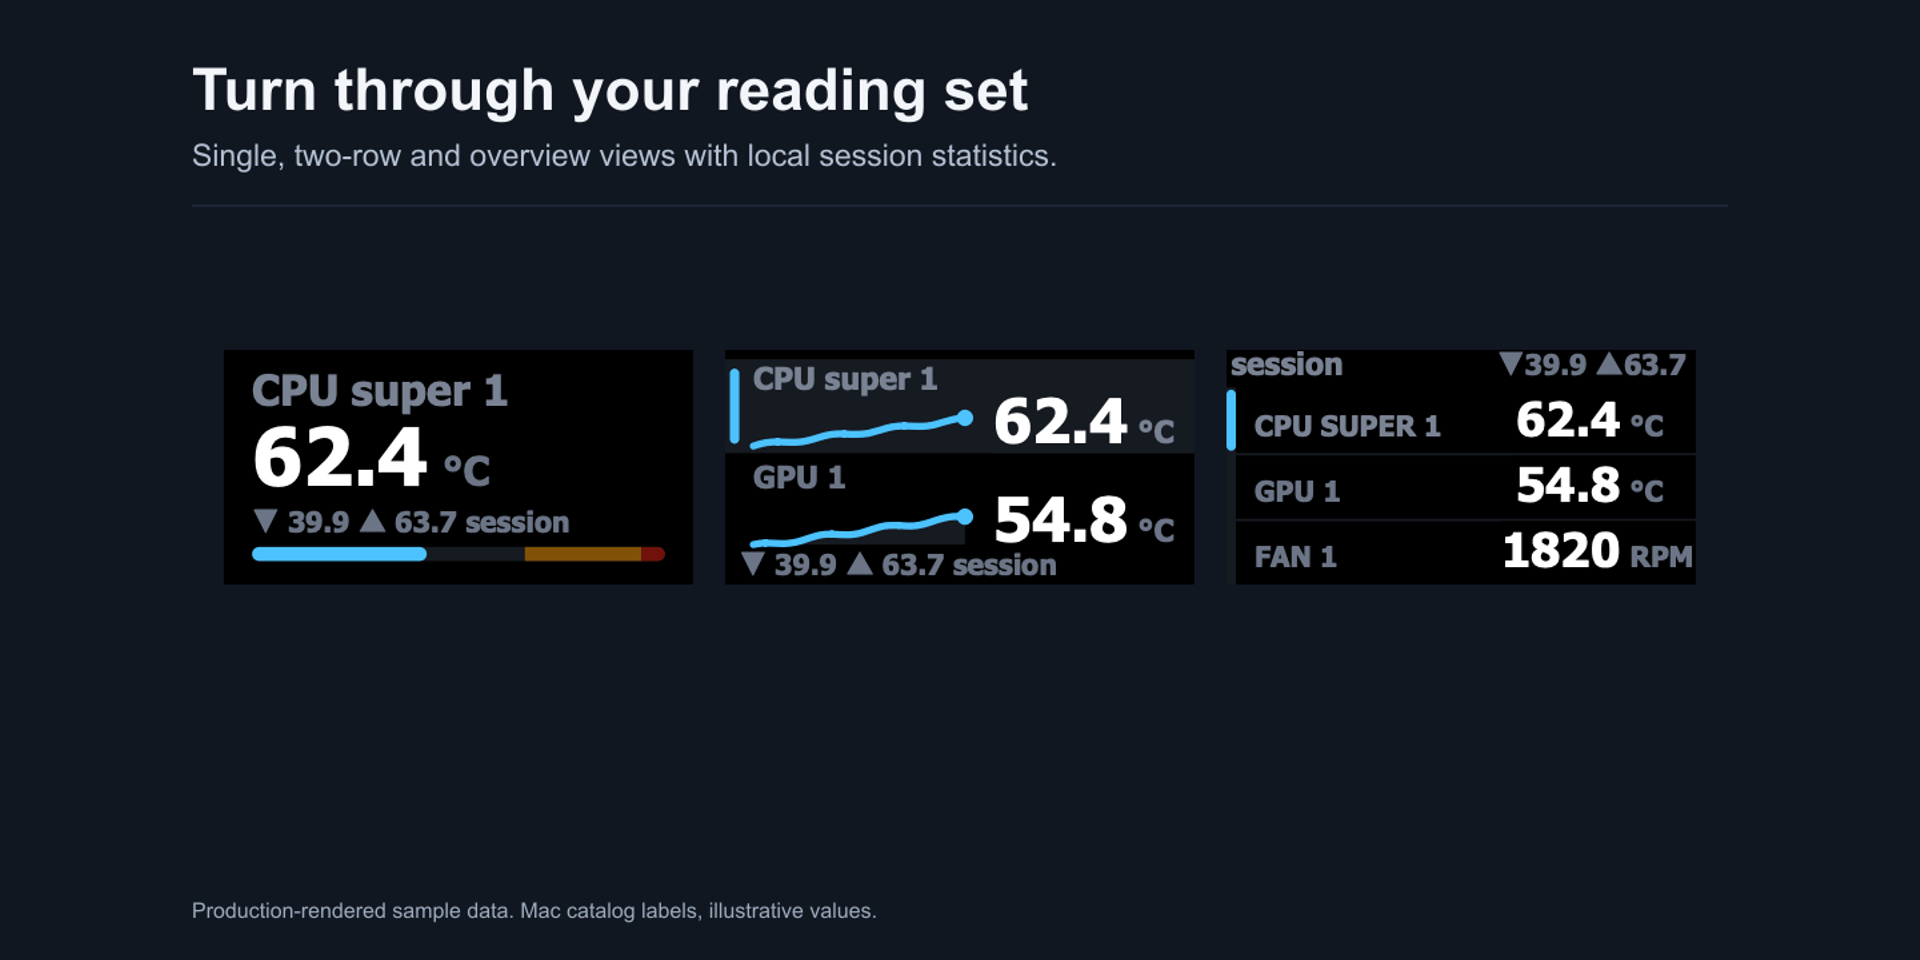
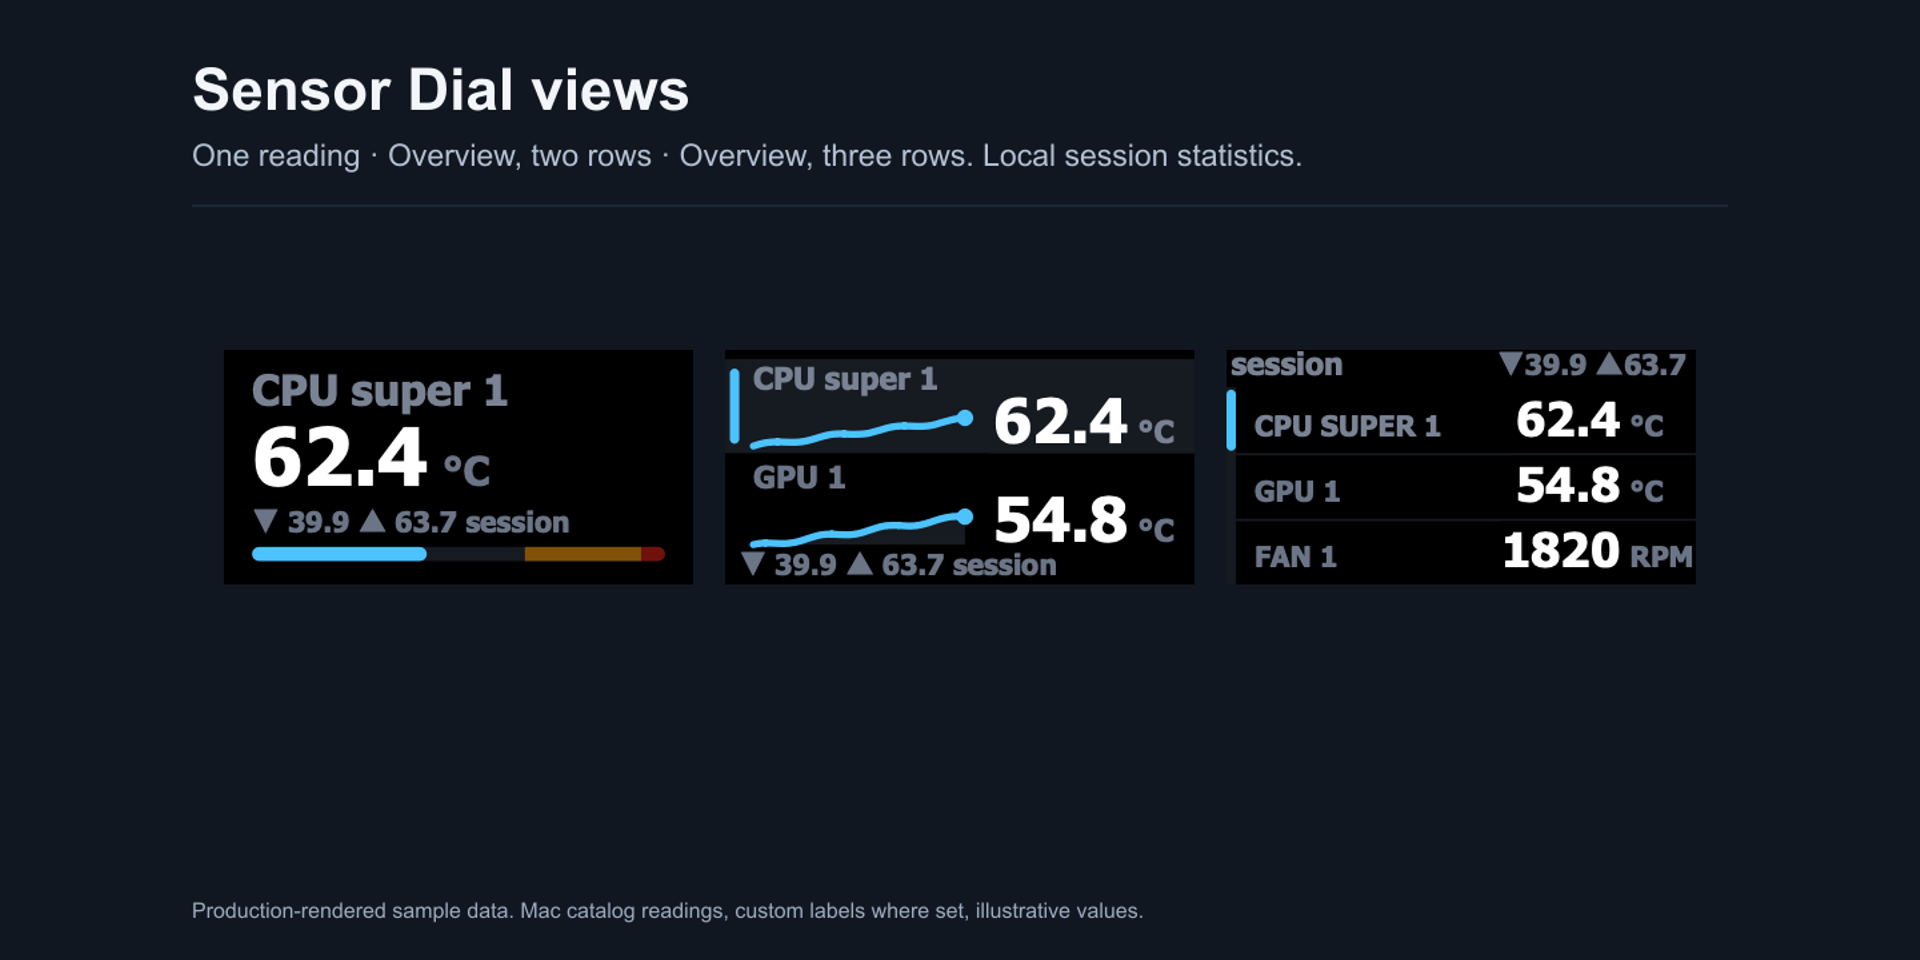
docs(images): name the dial views and custom labels on the boards
The dial board named its views "Single, two-row and overview"; it now uses
the panel's View options: One reading, Overview, two rows and Overview,
three rows. Every board footer said "Mac catalog labels" while showing
custom labels such as CPU super 1 and Network RX. Each scene now records
whether it draws a typed label, and a board that shows one says "custom
labels where set". Slogan titles become plain subjects (Sensor Reading key
layouts, Sensor Dial views, Seven themes, Warning and critical colors,
Reading colors on a Sensor Dial).

Regenerated with npm run docs:assets through the installed app's Qt 6.11.1,
which first reproduced all 11 committed boards byte for byte from the
unchanged source; then npm run readme-boards and npm run marketing:shots.
The status board has no typed label and is unchanged. A test ties the dial
board's text to the panel's View options and checks which faces count as
custom-labelled.

Changed region(s): [[0.0938, 0.0625, 0.5312, 0.125], [0.0938, 0.1562, 0.6875, 0.1875], [0.3438, 0.9375, 0.5938, 0.9688]]

diff --git a/scripts/lib/mac-scenes.ts b/scripts/lib/mac-scenes.ts
@@ -10,7 +10,7 @@ import {composeBackFace,composeChunkFace,composePagerFace,composeTitleFace,type 
 import {pageOf,projectDetailTiles,resolveDetailGroup} from '../../src/detail/detail-group';
 import {DETAIL_PROFILES,readingSlotCapacity,type DetailNavRole} from '../../src/detail/managed-profiles';
 import type {DetailPresentation,DeviceDetailState} from '../../src/detail/navigation';
-export type Scene={id:string;kind:'key'|'dial';svg:string;description:string};
+export type Scene={id:string;kind:'key'|'dial';svg:string;description:string;customLabel:boolean};
 const smc=(key:string,meaning:string)=>`mac:v1:smc:Mac17%2C9:${Buffer.from(key).toString('hex')}:${meaning}.v1`;
 /** The shipped provider's groups in its GROUPS order (src/mac/provider.ts); each group's sensor id is its position plus one. */
 export const PROVIDER_GROUPS=['CPU','GPU','Memory','Storage','Network','Battery','Fans','System'] as const;
@@ -49,6 +49,11 @@ export function sampleSnapshot():SensorSnapshot {
 const docsGlobals={theme:'void',textMode:'theme',typeAccents:'off',dataUnits:'decimal',textFont:'tahoma'} as const;
 const STAT_CYCLE=['current','min','max','avg'] as const;
 const readingFaceLabels=['CPU super 1','GPU 1','Fan 1','System Total','CPU activity','Memory active','Network RX','Free space'];
+/** True when a face draws a typed label instead of the reading's catalog label, so its board footer can say custom labels are shown. */
+const typedLabel=(pairs:[string|undefined,string|undefined][])=>pairs.some(([key,label])=>!!label&&label!==sampleReadings.find(row=>row.key===key)?.label);
+/** The labelled slots a key layout draws: one reading, or the first two, three or four. */
+const KEY_LAYOUT_SLOTS:Record<string,number>={dual:2,triple:3,quad:4};
+const keyLabels=(settings:ReadingSettings)=>typedLabel(([[settings.readingKey,settings.label],[settings.secondaryReadingKey,settings.secondaryLabel],[settings.quadReadingKey3,settings.quadLabel3],[settings.quadReadingKey4,settings.quadLabel4]] as [string|undefined,string|undefined][]).slice(0,KEY_LAYOUT_SLOTS[settings.keyLayout??'']??1));
 // The bundled 15-key detail profile, read from the one registry the runtime and profile generator use.
 const standardDetail=DETAIL_PROFILES.find(profile=>profile.key==='standard')!;
 type DetailCell={id:string;role:DetailNavRole}|{id:string;index:number};
@@ -70,7 +75,7 @@ export function composeScenes():Scene[] {
 		// Fixture-only history in this rendering process; no provider is opened.
 		poller.subscribeSeries(row.key);const series=poller.getSeries(row.key) as number[];series.length=0;series.push(...history);
 	}
-	const scenes:Scene[]=[],key=(id:string,settings:ReadingSettings,description:string,back=false)=>scenes.push({id,kind:'key',svg:compose(settings,status,back),description});
+	const scenes:Scene[]=[],key=(id:string,settings:ReadingSettings,description:string,back=false)=>scenes.push({id,kind:'key',svg:compose(settings,status,back),description,customLabel:keyLabels(settings)});
 	for(const [index,row] of sampleReadings.entries())key('reading-'+index,{readingKey:row.key,label:readingFaceLabels[index],displayMode:'sparkline'},row.label);
 	const primary={readingKey:sampleReadings[0]!.key,label:'CPU super 1',secondaryReadingKey:sampleReadings[1]!.key,secondaryLabel:'GPU 1',quadReadingKey3:sampleReadings[2]!.key,quadLabel3:'Fan 1',quadReadingKey4:sampleReadings[4]!.key,quadLabel4:'CPU'};
 	for(const keyLayout of ['dual','triple','quad'])key('layout-'+keyLayout,{...primary,keyLayout,quadLabels:true,...(keyLayout==='triple'?{label:'CPU',secondaryLabel:'GPU',quadLabel3:'Fan'}:{})},keyLayout+' layout');
@@ -82,13 +87,13 @@ export function composeScenes():Scene[] {
 	for(const theme of ['void','graphite','ultraviolet','midnight','forest','ember','paper'])key('theme-'+theme,{readingKey:sampleReadings[0]!.key,label:'CPU super 1',theme,displayMode:'sparkline'},theme+' theme');
 	for(const dialView of ['single','tworow','overview']){
 		const settings:DialSettings={readingKey:sampleReadings[0]!.key,label:'CPU super 1',rotationKeys:sampleReadings.slice(0,3).map(row=>row.key),dialView,overviewLabels:'full',theme:'void',...(dialView==='single'?{warnValue:'75',critValue:'90'}:{})};
-		const state:DialRenderState={settings,stats,statMode:'current',overlay:null,pinned:false,cyclePaused:false};scenes.push({id:'dial-'+dialView,kind:'dial',svg:composeDialSvg(state,status,key=>histories.get(key)??[]),description:dialView+' dial view'});
+		const state:DialRenderState={settings,stats,statMode:'current',overlay:null,pinned:false,cyclePaused:false};scenes.push({id:'dial-'+dialView,kind:'dial',svg:composeDialSvg(state,status,key=>histories.get(key)??[]),description:dialView+' dial view',customLabel:typedLabel([[settings.readingKey,settings.label]])});
 	}
 	const colored:DialRenderState={settings:{readingKey:sampleReadings[0]!.key,label:'CPU super 1',rotationKeys:sampleReadings.slice(0,3).map(row=>row.key),dialView:'overview',overviewLabels:'full',theme:'void',readingColors:Object.fromEntries(sampleReadings.slice(0,3).map((row,index)=>[row.key,['#4CC2FF','#FF7E8E','#38CD89'][index]!]))},stats,statMode:'current',overlay:null,pinned:false,cyclePaused:false};
-	scenes.push({id:'dial-overview-colored',kind:'dial',svg:composeDialSvg(colored,status,key=>histories.get(key)??[]),description:'Individual number colors'});
+	scenes.push({id:'dial-overview-colored',kind:'dial',svg:composeDialSvg(colored,status,key=>histories.get(key)??[]),description:'Individual number colors',customLabel:typedLabel([[colored.settings.readingKey,colored.settings.label]])});
 	// No Mac code path raises access-denied, so it has no scene.
-	for(const reason of ['pending','busy','no-readable-sensors','unsupported-platform','bridge-failed','font-missing','source-error'] as const)scenes.push({id:'status-'+reason,kind:'key',svg:compose({readingKey:sampleReadings[0]!.key},{state:'unavailable',reason,message:''}),description:reason});
-	scenes.push({id:'status-missing',kind:'key',svg:compose({readingKey:'mac:v1:system:missing'},status),description:'Saved sensor missing'});
+	for(const reason of ['pending','busy','no-readable-sensors','unsupported-platform','bridge-failed','font-missing','source-error'] as const)scenes.push({id:'status-'+reason,kind:'key',svg:compose({readingKey:sampleReadings[0]!.key},{state:'unavailable',reason,message:''}),description:reason,customLabel:false});
+	scenes.push({id:'status-missing',kind:'key',svg:compose({readingKey:'mac:v1:system:missing'},status),description:'Saved sensor missing',customLabel:false});
 	// The detail page as DetailController paints it: an opener on CPU super 1 whose Press opens A custom list of the other
 	// seven sample readings with Title tile text left blank, so the title is resolveDetailGroup's own default.
 	// Opened from the top-left key, so no reading cell becomes a second Back tile.
@@ -100,10 +105,11 @@ export function composeScenes():Scene[] {
 	for(const cell of detailCells()){
 		if('role' in cell){
 			const svg=cell.role==='back'?composeBackFace(state,status,ctx):cell.role==='title'?composeTitleFace(state,page,ctx):composePagerFace(cell.role,page,state,ctx);
-			scenes.push({id:cell.id,kind:'key',svg,description:'Detail page '+cell.role+' tile'});
+			// The Back tile draws the opener's own label; the title and pagers draw no reading label.
+			scenes.push({id:cell.id,kind:'key',svg,description:'Detail page '+cell.role+' tile',customLabel:cell.role==='back'&&typedLabel([[opener.readingKey,opener.label]])});
 		}else{
 			const chunk=page.chunks[cell.index]??[];
-			scenes.push({id:cell.id,kind:'key',svg:composeChunkFace(state,chunk,'current',status,ctx,page.specs[cell.index]),description:chunk.length?'Detail page reading tile: '+chunk.map(key=>snapshot.byKey.get(key)?.label).join(', '):'Detail page empty tile'});
+			scenes.push({id:cell.id,kind:'key',svg:composeChunkFace(state,chunk,'current',status,ctx,page.specs[cell.index]),description:chunk.length?'Detail page reading tile: '+chunk.map(key=>snapshot.byKey.get(key)?.label).join(', '):'Detail page empty tile',customLabel:false});
 		}
 	}
 	// The shipped default, Accent colors: By sensor type, on the same reading faces.
@@ -117,15 +123,20 @@ export function composeScenes():Scene[] {
 	}
 	return scenes;
 }
+/** The footer under a board: it says custom labels are shown when any face on the board draws one. */
+export function boardFooter(board:{scenes:string[]},scenes:Scene[]):string {
+	const custom=board.scenes.some(id=>scenes.find(scene=>scene.id===id)?.customLabel);
+	return 'Production-rendered sample data. '+(custom?'Mac catalog readings, custom labels where set':'Mac catalog labels')+', illustrative values.';
+}
 export const boardDefinitions=[
 	{id:'readme-hero',title:'Mac Sensors',subtitle:'Seven themes. Live readings on keys and dials. Hardware stays read-only.',scenes:['theme-void','theme-graphite','theme-ultraviolet','theme-midnight','theme-forest','theme-ember','theme-paper','layout-quad','reading-0','reading-1','reading-2','reading-3','reading-4','reading-5','reading-6','reading-7','layout-dual','layout-triple','ring','bar','warn','crit','back','detail-page-title','dial-single','dial-tworow','dial-overview','dial-overview-colored'],columns:8},
 	{id:'hero',title:'Mac Sensors',subtitle:'Your Mac, on your keys and dials.',scenes:['reading-0','reading-1','reading-2','reading-4','dial-tworow'],columns:4},
-	{id:'key-layouts',title:'Give each reading the space it needs',subtitle:'One, two, three or four readings on a key.',scenes:['reading-0','layout-dual','layout-triple','layout-quad','bar','ring','reading-5','reading-6'],columns:4},
+	{id:'key-layouts',title:'Sensor Reading key layouts',subtitle:'One, two, three or four readings on a key.',scenes:['reading-0','layout-dual','layout-triple','layout-quad','bar','ring','reading-5','reading-6'],columns:4},
 	{id:'details',title:'Detail page on a 15-key Stream Deck',subtitle:'Back, title, Previous and Next, then a custom list of seven readings. The last four cells are empty.',scenes:detailCells().map(cell=>cell.id),columns:standardDetail.layout.columns,tile:144,gap:24,top:175},
-	{id:'dials',title:'Turn through your reading set',subtitle:'Single, two-row and overview views with local session statistics.',scenes:['dial-single','dial-tworow','dial-overview'],columns:3},
-	{id:'themes',title:'Choose the look that fits your desk',subtitle:'A shared default, with local choices when you want them.',scenes:['theme-void','theme-graphite','theme-ultraviolet','theme-midnight','theme-forest','theme-ember','theme-paper'],columns:4},
-	{id:'alerts',title:'See when a reading crosses your threshold',subtitle:'Normal, warning and critical states. Hardware remains read-only.',scenes:['reading-0','warn','crit','bar'],columns:4},
-	{id:'reading-colors',title:'Give readings their own number colors',subtitle:'The same readings and geometry. Only numeric fills change.',scenes:['dial-overview','dial-overview-colored'],columns:2},
+	{id:'dials',title:'Sensor Dial views',subtitle:'One reading · Overview, two rows · Overview, three rows. Local session statistics.',scenes:['dial-single','dial-tworow','dial-overview'],columns:3},
+	{id:'themes',title:'Seven themes',subtitle:'One shared theme, or a theme for each key or dial.',scenes:['theme-void','theme-graphite','theme-ultraviolet','theme-midnight','theme-forest','theme-ember','theme-paper'],columns:4},
+	{id:'alerts',title:'Warning and critical colors',subtitle:'Normal, warning and critical states set by Warn at and Critical at.',scenes:['reading-0','warn','crit','bar'],columns:4},
+	{id:'reading-colors',title:'Reading colors on a Sensor Dial',subtitle:'The same readings and layout. Only the number colors differ.',scenes:['dial-overview','dial-overview-colored'],columns:2},
 	{id:'status',title:'Status screens on a key',subtitle:'Shown in place of the reading when there is no live value to draw.',scenes:['status-pending','status-busy','status-missing','status-no-readable-sensors','status-bridge-failed','status-font-missing','status-source-error'],columns:4},
 	{id:'accents',title:'Accent colors by sensor type',subtitle:'The default setting. Trend lines take the reading type\'s color; Free space keeps the theme accent.',scenes:['accent-reading-0','accent-reading-1','accent-reading-2','accent-reading-3','accent-reading-4','accent-reading-5','accent-reading-6','accent-reading-7'],columns:4},
 	{id:'stat-modes',title:'Pressing a key cycles current, MIN, MAX and AVG',subtitle:'MIN, MAX and AVG come from this session\'s reads. Below, two readings share one badge.',scenes:[...STAT_CYCLE.map(mode=>'stat-single-'+mode),...STAT_CYCLE.map(mode=>'stat-dual-'+mode)],columns:4}

diff --git a/test/mac/docs-assets.test.ts b/test/mac/docs-assets.test.ts
@@ -4,7 +4,7 @@ import path from 'node:path';
 import {createHash} from 'node:crypto';
 import {test} from 'node:test';
 import sharp from 'sharp';
-import {composeScenes,sampleReadings,sampleSnapshot,sampleGroups,PROVIDER_GROUPS,boardDefinitions} from '../../scripts/lib/mac-scenes';
+import {composeScenes,sampleReadings,sampleSnapshot,sampleGroups,PROVIDER_GROUPS,boardDefinitions,boardFooter} from '../../scripts/lib/mac-scenes';
 import {DETAIL_PROFILES} from '../../src/detail/managed-profiles';
 const hash=(bytes:Buffer|string)=>createHash('sha256').update(bytes).digest('hex');
 const pngsIn=(dir:string)=>fs.readdirSync(dir).filter(file=>file.endsWith('.png')).sort();
@@ -32,6 +32,18 @@ test('panel captures and marketing artwork retain their recorded sources',()=>{
 	assert.deepEqual(pngsIn('marketing'),marketing.assets.map(asset=>asset.file).sort());
 });
 
+
+test('board text names the dial views as the panel does and says when faces show custom labels',()=>{
+ // The View options in the shipped panel source, without the panel's parenthetical help.
+ const panel=fs.readFileSync('com.lawrensen.mac.sdPlugin/ui/sensor-dial.html','utf8'),dials=boardDefinitions.find(board=>board.id==='dials')!;
+ for(const value of ['single','tworow','overview']){const name=new RegExp(`<option value="${value}">([^<(]+)`).exec(panel)?.[1]?.trim();assert.ok(name&&dials.subtitle.includes(name),value+': '+name);}
+ const scenes=composeScenes(),custom=(id:string)=>scenes.find(scene=>scene.id===id)!.customLabel;
+ // Typed labels (CPU super 1, CPU activity, the opener on the Back tile) count; catalog labels and status faces do not.
+ for(const id of ['reading-0','reading-4','layout-triple','back','dial-overview','detail-page-back'])assert.equal(custom(id),true,id);
+ for(const id of ['reading-1','bar','ring','status-missing','detail-page-title','detail-page-tile-0'])assert.equal(custom(id),false,id);
+ assert.match(boardFooter(boardDefinitions.find(board=>board.id==='key-layouts')!,scenes),/custom labels/);
+ assert.doesNotMatch(boardFooter(boardDefinitions.find(board=>board.id==='status')!,scenes),/custom/);
+});
 
 test('individual dial colors change fills while preserving all geometry and words',()=>{
  const scenes=composeScenes(),plain=scenes.find(scene=>scene.id==='dial-overview')!,colored=scenes.find(scene=>scene.id==='dial-overview-colored')!;

diff --git a/marketing/README.md b/marketing/README.md
@@ -1,6 +1,6 @@
 # Marketing assets
 
-The boards use the production Mac renderers with fixed sample values and labels from the measured Mac catalog. They are not physical photographs. Panel images are captures of the staged Mac panel in Chromium with a simulated host. Provenance records source and output hashes. Faces are rasterized through the installed app's measured Qt renderer in Tahoma.
+The boards use the production Mac renderers with fixed sample values. Readings come from the measured Mac catalog, and boards that show custom labels say so in their footer. They are not physical photographs. Panel images are captures of the staged Mac panel in Chromium with a simulated host. Provenance records source and output hashes. Faces are rasterized through the installed app's measured Qt renderer in Tahoma.
 
 | File | Use | Dimensions |
 | --- | --- | --- |
